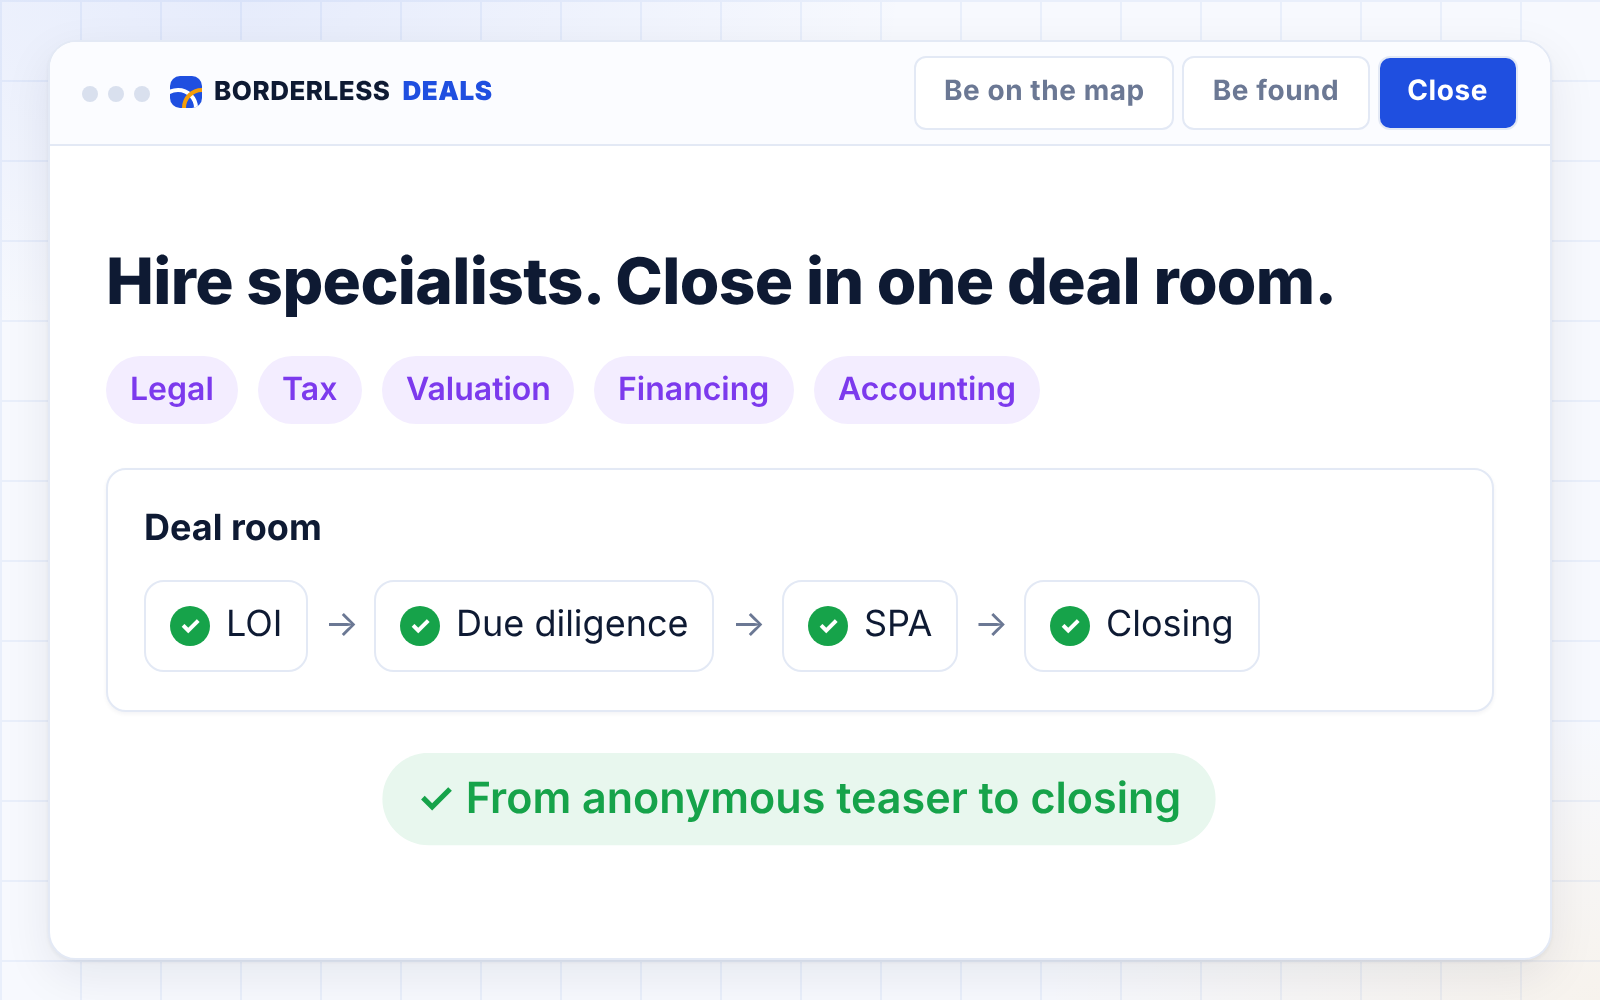
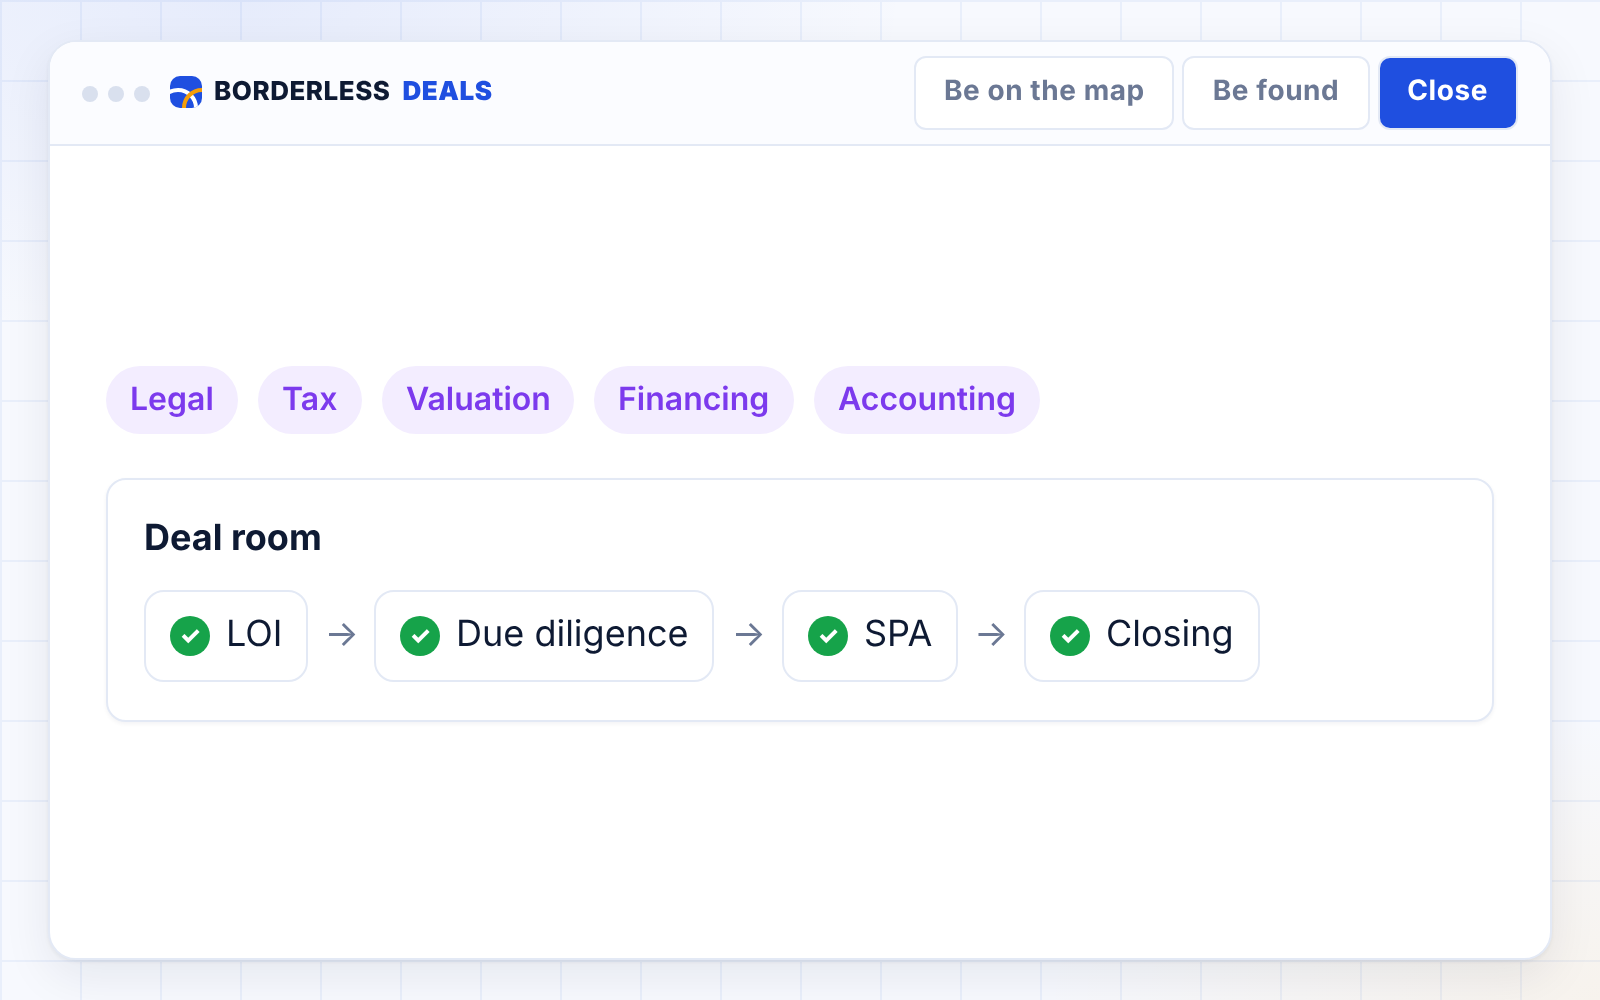
Apply final neutral-review fixes: Japan arc from US, pillars without in-image headline and longer hold, 'a person decides', 'at launch' for AI-assistant reach, alt text, 'executed' LOIs
Claude-Session: https://claude.ai/code/session_013sJALjyn2FyxQTA8AYsoWu

diff --git a/site/index.html b/site/index.html
@@ -102,7 +102,7 @@
   <div>
     <div class="eyebrow">Reach</div>
     <h2>Buyers abroad find your teaser where they already search.</h2>
-    <p class="sub">Your anonymous teaser can be found on Borderless Deals, in Claude and ChatGPT, and on Google. Buyers browse free and join to sign an NDA or contact your broker. Their AI agent checks fit with yours first.</p>
+    <p class="sub">At launch, your anonymous teaser can be found on Borderless Deals, in Claude and ChatGPT, and on Google. Buyers browse free and join to sign an NDA or contact your broker. Their AI agent checks fit with yours first.</p>
     <ul class="points"><li><b>No one cold-emails buyers on your behalf.</b> Every contact is one the buyer chose to make.</li></ul>
   </div>
   <div class="visual"><img src="assets/gif/ai-assistant.gif" loading="lazy" width="800" height="500" alt="A buyer asks Claude or ChatGPT for US companies for sale; anonymous teasers appear; the buyer joins to sign an NDA, and the request goes to the sell-side broker."></div>
@@ -125,7 +125,7 @@
     <h2>Find what would break a cross-border deal before the buyer does.</h2>
     <p class="sub">Many broken deals fail on things that were knowable earlier. At every stage from the mandate to the SPA, an AI agent tests the seller's and the buyer's stories for contradictions and gaps, and re-checks the corridor's rules, such as foreign-investment screening and sanctions. A specialist is called in for anything deeper, and the broker decides.</p></div>
   <div class="visual block-visual" style="max-width:960px;margin-left:auto;margin-right:auto"><img src="assets/gif/stage-gates.gif" loading="lazy" width="800" height="500" alt="Seven gates from mandate to SPA and closing; a contradiction found at the mandate is fixed by a specialist before the deal moves on."></div>
-  <p class="source-note">In Axial's review of 65 signed LOIs that broke in 2024, non-QoE diligence findings (21.5%), QoE EBITDA discrepancies (15.4%) and business underperformance (12.3%) caused about half the failures. Deals sat in exclusivity for an average of 58 to 203 days, depending on industry, before they broke.</p>
+  <p class="source-note">In Axial's review of 65 executed LOIs that broke in 2024, non-QoE diligence findings (21.5%), QoE EBITDA discrepancies (15.4%) and business underperformance (12.3%) caused about half the failures. Deals sat in exclusivity for an average of 58 to 203 days, depending on industry, before they broke.</p>
 </div></section>
 
 <!-- S10 · SERVICES -->
@@ -169,7 +169,7 @@
     <details><summary>Who is behind Borderless Deals?</summary><p>Borderless Deals is a new company built on deal-execution technology from AgenticPM, an AI agent platform for private equity and transaction advisers.</p></details>
     <p style="margin-top:16px"><a href="faq.html">All questions by role →</a></p>
   </div>
-  <div class="visual"><img src="assets/gif/objections.gif" loading="lazy" width="800" height="500" alt="Three question cards with their answers: listing through a broker, selling to US buyers too, and screening flagged early."></div>
+  <div class="visual"><img src="assets/gif/objections.gif" loading="lazy" width="800" height="500" alt="Three question cards with their answers: listing through a broker, selling to US buyers too, and who holds the money."></div>
 </div></section>
 
 <section id="join"><div class="wrap"><div class="cta-band">

diff --git a/site/_pages/index.html b/site/_pages/index.html
@@ -88,7 +88,7 @@
   <div>
     <div class="eyebrow">Reach</div>
     <h2>Buyers abroad find your teaser where they already search.</h2>
-    <p class="sub">Your anonymous teaser can be found on Borderless Deals, in Claude and ChatGPT, and on Google. Buyers browse free and join to sign an NDA or contact your broker. Their AI agent checks fit with yours first.</p>
+    <p class="sub">At launch, your anonymous teaser can be found on Borderless Deals, in Claude and ChatGPT, and on Google. Buyers browse free and join to sign an NDA or contact your broker. Their AI agent checks fit with yours first.</p>
     <ul class="points"><li><b>No one cold-emails buyers on your behalf.</b> Every contact is one the buyer chose to make.</li></ul>
   </div>
   <div class="visual"><img src="assets/gif/ai-assistant.gif" loading="lazy" width="800" height="500" alt="A buyer asks Claude or ChatGPT for US companies for sale; anonymous teasers appear; the buyer joins to sign an NDA, and the request goes to the sell-side broker."></div>
@@ -111,7 +111,7 @@
     <h2>Find what would break a cross-border deal before the buyer does.</h2>
     <p class="sub">Many broken deals fail on things that were knowable earlier. At every stage from the mandate to the SPA, an AI agent tests the seller's and the buyer's stories for contradictions and gaps, and re-checks the corridor's rules, such as foreign-investment screening and sanctions. A specialist is called in for anything deeper, and the broker decides.</p></div>
   <div class="visual block-visual" style="max-width:960px;margin-left:auto;margin-right:auto"><img src="assets/gif/stage-gates.gif" loading="lazy" width="800" height="500" alt="Seven gates from mandate to SPA and closing; a contradiction found at the mandate is fixed by a specialist before the deal moves on."></div>
-  <p class="source-note">In Axial's review of 65 signed LOIs that broke in 2024, non-QoE diligence findings (21.5%), QoE EBITDA discrepancies (15.4%) and business underperformance (12.3%) caused about half the failures. Deals sat in exclusivity for an average of 58 to 203 days, depending on industry, before they broke.</p>
+  <p class="source-note">In Axial's review of 65 executed LOIs that broke in 2024, non-QoE diligence findings (21.5%), QoE EBITDA discrepancies (15.4%) and business underperformance (12.3%) caused about half the failures. Deals sat in exclusivity for an average of 58 to 203 days, depending on industry, before they broke.</p>
 </div></section>
 
 <!-- S10 · SERVICES -->
@@ -155,7 +155,7 @@
     <details><summary>Who is behind Borderless Deals?</summary><p>Borderless Deals is a new company built on deal-execution technology from AgenticPM, an AI agent platform for private equity and transaction advisers.</p></details>
     <p style="margin-top:16px"><a href="faq.html">All questions by role →</a></p>
   </div>
-  <div class="visual"><img src="assets/gif/objections.gif" loading="lazy" width="800" height="500" alt="Three question cards with their answers: listing through a broker, selling to US buyers too, and screening flagged early."></div>
+  <div class="visual"><img src="assets/gif/objections.gif" loading="lazy" width="800" height="500" alt="Three question cards with their answers: listing through a broker, selling to US buyers too, and who holds the money."></div>
 </div></section>
 
 <!--JOIN-->

diff --git a/visuals/src/pillars.html b/visuals/src/pillars.html
@@ -38,7 +38,7 @@
 .arr{color:var(--ink-3);font-size:18px}
 .end{position:absolute;left:0;right:0;bottom:0;text-align:center}
 </style></head>
-<body data-ms="10500" style="--T:10.5s"><div class="stage">
+<body data-ms="12000" style="--T:12s"><div class="stage">
 <div class="win">
   <div class="bar"><div class="dots"><i></i><i></i><i></i></div>
     <div class="logo"><span class="mk"></span>BORDERLESS <b>DEALS</b></div>
@@ -46,7 +46,6 @@
   </div>
 
   <div class="pane p1">
-    <div class="t28 lead">One directory for both sides</div>
     <div class="row">
       <div class="card party sr" style="--d:.9s"><div class="agent seller lg">S</div><div><div class="t22">US company</div><div class="t16 muted">Anonymous teaser<br>Ohio · via sell-side broker</div></div></div>
       <div class="card party sl" style="--d:1.3s"><div class="agent buyer lg">B</div><div><div class="t22">Buyer in India</div><div class="t16 muted">Mumbai<br>via buy-side broker</div></div></div>
@@ -55,7 +54,6 @@
   </div>
 
   <div class="pane p2">
-    <div class="t28 lead">Matching runs both ways</div>
     <div class="row">
       <div class="card match sr" style="--d:3.9s"><div class="hd"><div class="agent ai">AI</div><div class="t18 b">Buyer's AI agent</div></div>
         <div class="t18">Finds your anonymous teaser</div><div style="margin-top:14px"><span class="chip lg g pop" style="--d:4.6s">✓ Match found</span></div></div>
@@ -69,7 +67,6 @@
   </div>
 
   <div class="pane p3">
-    <div class="t28 lead">Hire specialists. Close in one deal room.</div>
     <div class="provs">
       <span class="chip lg v pop" style="--d:6.9s">Legal</span><span class="chip lg v pop" style="--d:7.0s">Tax</span><span class="chip lg v pop" style="--d:7.1s">Valuation</span><span class="chip lg v pop" style="--d:7.2s">Financing</span><span class="chip lg v pop" style="--d:7.3s">Accounting</span>
     </div>
@@ -80,7 +77,7 @@
         <div class="step pop" style="--d:8.1s"><span class="tick">✓</span>SPA</div><span class="arr">→</span>
         <div class="step pop" style="--d:8.3s"><span class="tick">✓</span>Closing</div>
       </div></div>
-    <div style="margin-top:22px;text-align:center"><span class="chip lg g pop" style="--d:8.6s;font-size:20px;padding:8px 16px">✓ From anonymous teaser to closing</span></div>
+    
   </div>
 </div>
 </div></body></html>

diff --git a/visuals/src/services-marketplace.html b/visuals/src/services-marketplace.html
@@ -45,7 +45,7 @@
       <div style="flex:1"><div class="t18 b">Accounting firm</div><div class="skel"><div class="bar-skel" style="width:80%"></div><div class="bar-skel" style="width:50%"></div></div></div></div>
   </div>
 
-  <div class="card verdict in" style="--d:2.8s"><div class="agent ai sm">AI</div><span class="t18 b">AI agent compared · you decide</span></div>
+  <div class="card verdict in" style="--d:2.8s"><div class="agent ai sm">AI</div><span class="t18 b">AI agent compared · a person decides</span></div>
 
   <div class="fly"><span class="chip v lg">Structuring memo</span></div>
 </div></body></html>

diff --git a/visuals/src/corridors-roadmap.html b/visuals/src/corridors-roadmap.html
@@ -26,7 +26,7 @@ svg.ov{position:absolute;left:0;top:0;width:800px;height:500px;overflow:visible}
   <svg class="ov" viewBox="0 0 800 500">
     <path class="arc glow" d="M216 134 Q390 -20 564 196"/>
     <path class="arc main" d="M216 134 Q390 -20 564 196"/>
-    <path class="arc next" style="--d:2.1s" d="M564 196 Q660 120 710 147"/>
+    <path class="arc next" style="--d:2.1s" d="M216 134 Q463 -70 710 147"/>
     <path class="arc next" style="--d:2.4s" d="M216 134 Q320 60 422 103"/>
   </svg>
   <div class="pin us"></div><div class="pin in"></div><div class="pin jp"></div><div class="pin eu"></div>

diff --git a/docs/message-house.md b/docs/message-house.md
@@ -134,7 +134,7 @@ Support line, used once in the hero:
 - **Claim:** buyers come to your anonymous teaser; nobody cold-emails on your behalf.
 - **Eyebrow:** Reach
 - **H2:** Buyers abroad find your teaser where they already search.
-- **Body:** Your anonymous teaser can be found on Borderless Deals, in Claude and ChatGPT, and on Google. Buyers browse free and join to sign an NDA or contact your broker. Their AI agent checks fit with yours first. No one cold-emails buyers on your behalf.
+- **Body:** At launch, your anonymous teaser can be found on Borderless Deals, in Claude and ChatGPT, and on Google. Buyers browse free and join to sign an NDA or contact your broker. Their AI agent checks fit with yours first. No one cold-emails buyers on your behalf.
 - **Visual, `ai-assistant`:**
   1. A buyer types a request into Claude or ChatGPT.
   2. Anonymous teaser cards appear by 2s, showing a size band and region only, tagged *Illustrative*.
@@ -155,7 +155,7 @@ Support line, used once in the hero:
 - **Eyebrow:** Deals that hold
 - **H2:** Find what would break a cross-border deal before the buyer does.
 - **Body:** Many broken deals fail on things that were knowable earlier. At every stage from the mandate to the SPA, an AI agent tests the seller's and the buyer's stories for contradictions and gaps, and re-checks the corridor's rules, such as foreign-investment screening and sanctions. A specialist is called in for anything deeper, and the broker decides.
-- **Proof:** In Axial's review of 65 signed LOIs that broke in 2024, non-QoE diligence findings (21.5%), QoE EBITDA discrepancies (15.4%) and business underperformance (12.3%) caused about half the failures. Deals sat in exclusivity for an average of 58 to 203 days, depending on industry, before they broke.
+- **Proof:** In Axial's review of 65 executed LOIs that broke in 2024, non-QoE diligence findings (21.5%), QoE EBITDA discrepancies (15.4%) and business underperformance (12.3%) caused about half the failures. Deals sat in exclusivity for an average of 58 to 203 days, depending on industry, before they broke.
 - **Visual, `stage-gates`:**
   - Seven gates: Mandate · Collateral · Anonymous teaser · NDA · LOI · Due diligence · SPA & closing.
   - At the mandate: "Contradiction: stated EBITDA ≠ tax return" → specialist called in → "Fixed".
